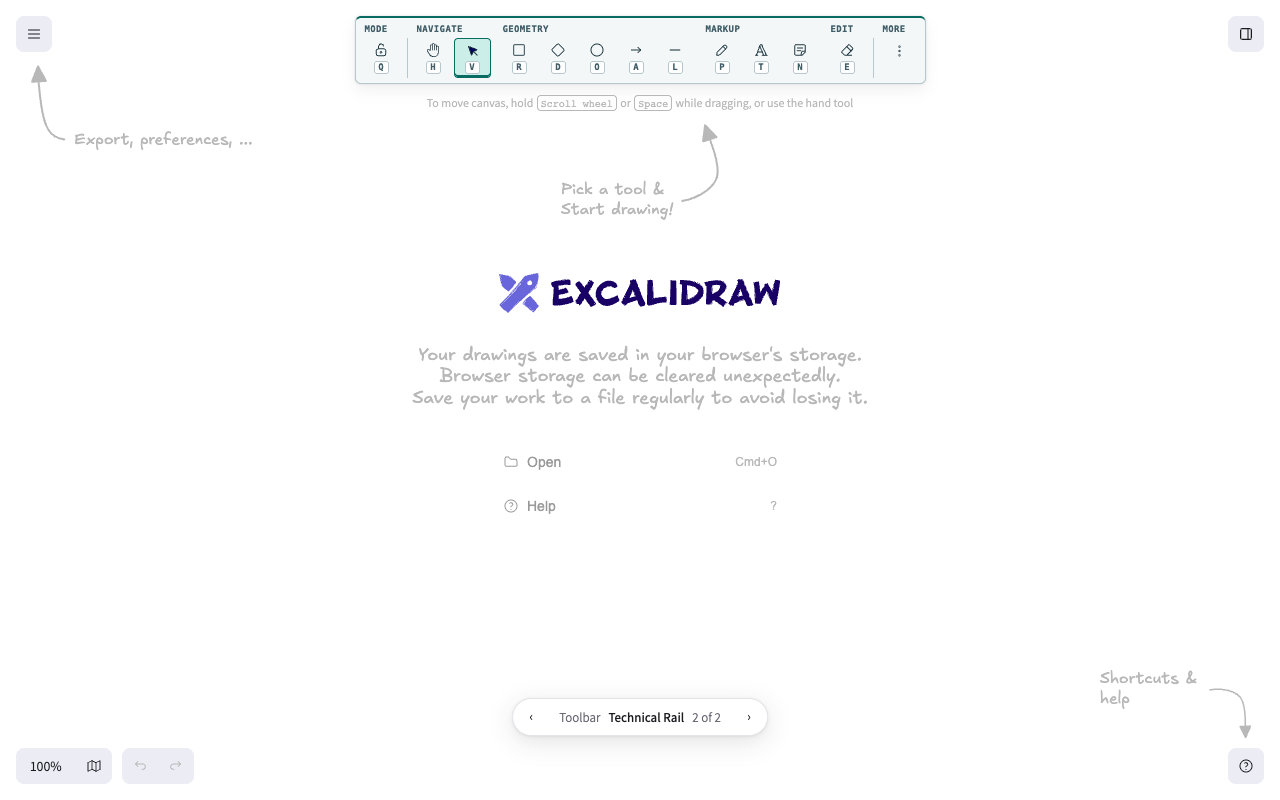
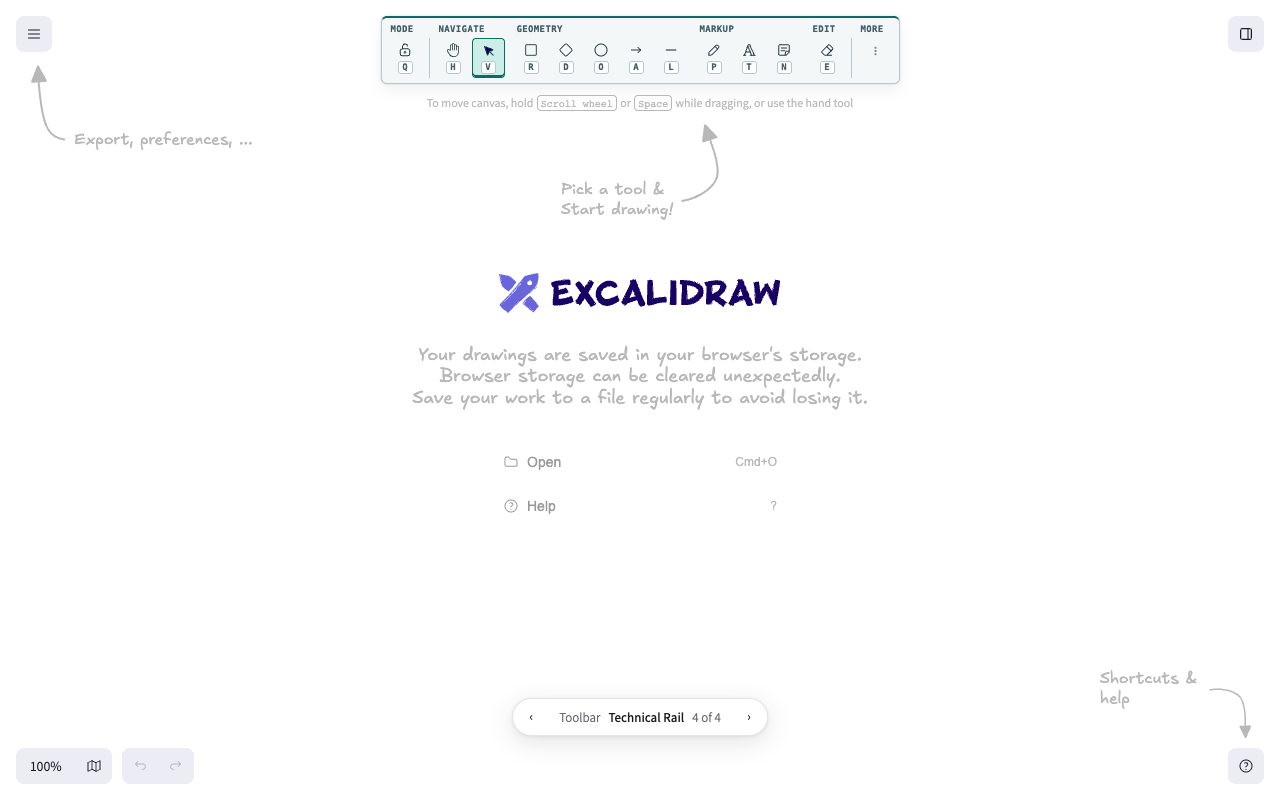
Tighten the technical toolbar spacing

Changed region(s): [[0.5, 0.0312, 0.7188, 0.0938], [0.2812, 0.0312, 0.4688, 0.0938]]

diff --git a/src/workshop/toolbars/technical-rail.css b/src/workshop/toolbars/technical-rail.css
@@ -9,7 +9,7 @@
   --rail-accent: #086c62;
   --rail-focus: #174ca2;
   --rail-mono: ui-monospace, Menlo, Consolas, monospace;
-  --rail-cell: 37px;
+  --rail-cell: 33px;
 }
 
 .excalidraw.theme--dark .toolbar-technical-rail {
